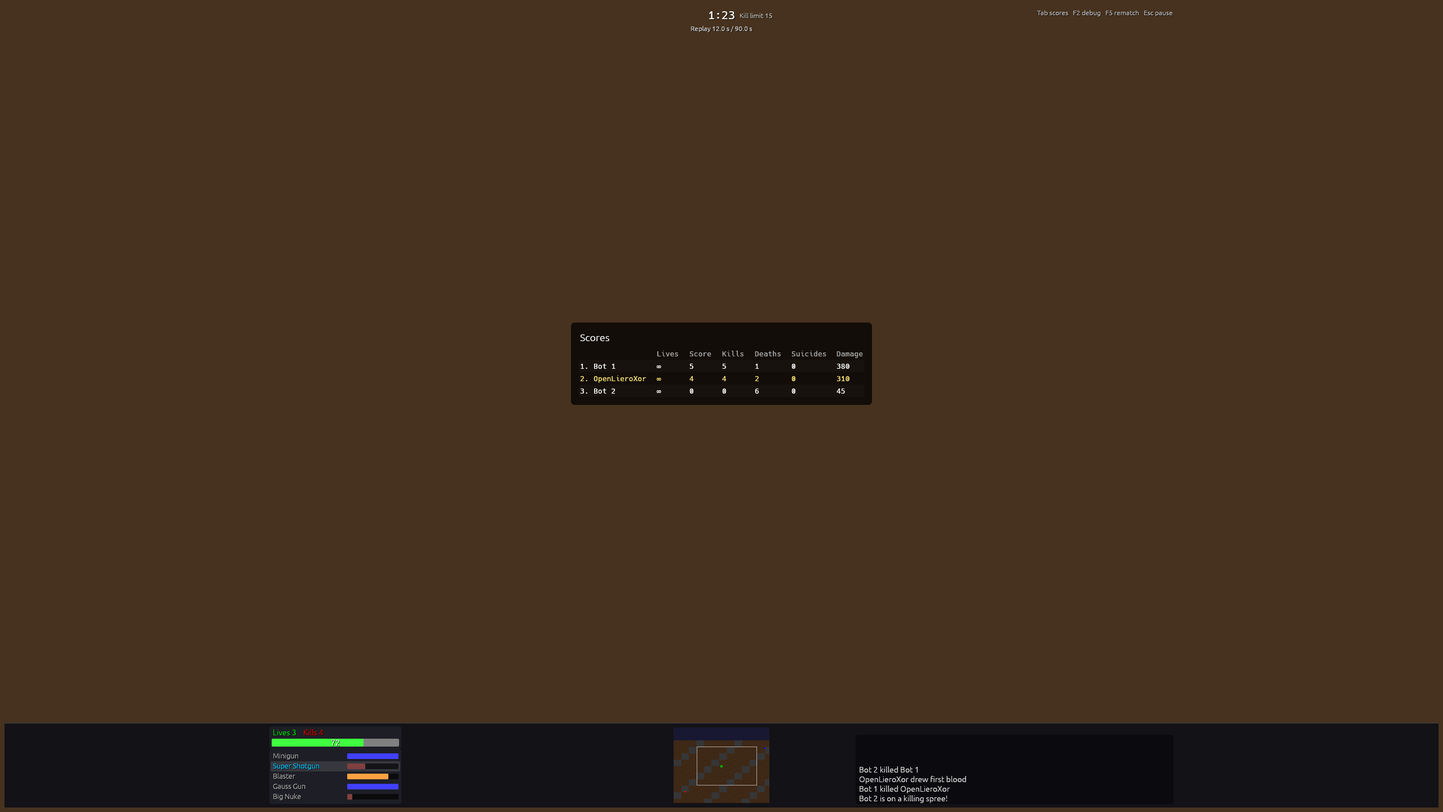
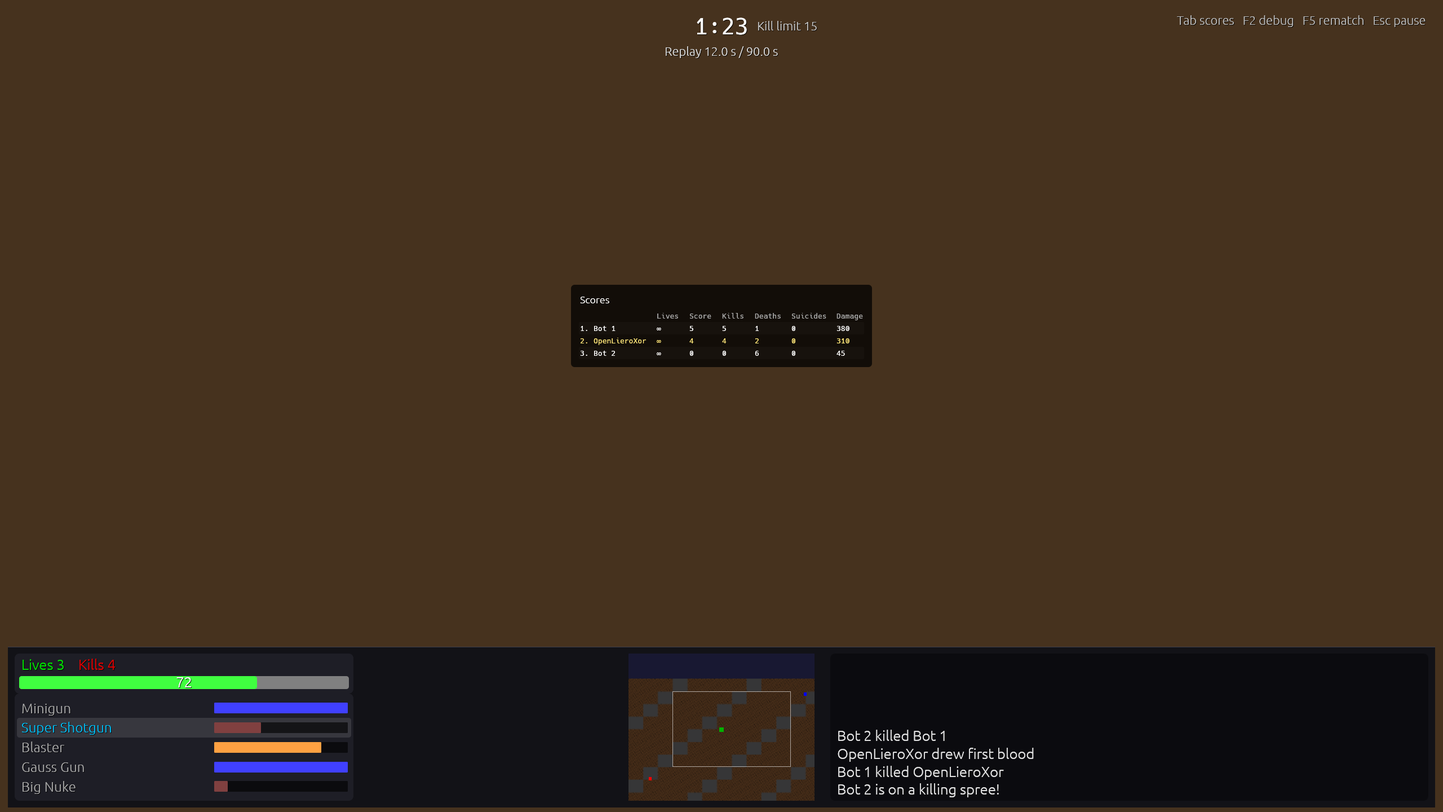
rl-game: add --hud-layout; document the 16:9 frame
The command line chooses the HUD's layout for a run, as the other video
flags do. The docs, the status and the changelog describe the 16:9
frame, the fixed view, the height-based scale and the side layout; the
HUD snapshots are blessed again, with a new one of the side layout at
3440 x 1440.

Claude-Session: https://claude.ai/code/session_019821i4KFSbhZ4mHYULrhEV

diff --git a/crates/rl-game/src/main.rs b/crates/rl-game/src/main.rs
@@ -49,6 +49,13 @@ impl Level {
 }
 
 #[derive(Clone, Copy, clap::ValueEnum)]
+enum HudLayoutFlag {
+    Auto,
+    Bar,
+    Sides,
+}
+
+#[derive(Clone, Copy, clap::ValueEnum)]
 enum Filter {
     /// Whole multiples of the art, centred, black bars around.
     Nearest,
@@ -138,6 +145,11 @@ struct Args {
     /// The upscale filter.
     #[arg(long, value_enum, default_value = "sharp")]
     filter: Filter,
+    /// Where the HUD goes on a window wider than 16:9: the bar, side
+    /// panels beside the 16:9 frame when there is room, or auto (side
+    /// panels on 21:9 and wider).
+    #[arg(long, value_enum, default_value = "auto")]
+    hud_layout: HudLayoutFlag,
     /// Quit after this many seconds.
     #[arg(long)]
     autoquit_after: Option<f64>,
@@ -208,7 +220,7 @@ fn plays_directly(m: &ArgMatches) -> bool {
 }
 
 /// The game the command line chose, loaded, and its session.
-fn direct(args: &Args, audio: rl_audio::Audio, cfg: ShellConfig) -> anyhow::Result<Shell> {
+fn direct(args: &Args, audio: rl_audio::Audio, cfg: ShellConfig, flags: &Overrides) -> anyhow::Result<Shell> {
     let mode = args.mode.unwrap_or(if args.spectate { Mode::Deathmatch } else { Mode::Sandbox });
     anyhow::ensure!(
         args.record.is_none() || mode == Mode::Deathmatch,
@@ -261,7 +273,13 @@ fn direct(args: &Args, audio: rl_audio::Audio, cfg: ShellConfig) -> anyhow::Resu
         Game::Replay(r) => format!("replay of {:.1} s", f64::from(r.ticks()) / 100.0),
     };
     println!("rl-game: {what}: {} on {}, {} worms", assets.mod_id, assets.level_id, assets.worms());
-    Ok(Shell::playing(cfg, assets, session))
+    let mut shell = Shell::playing(cfg, assets, session);
+    // The HUD's layout flag (no file: the other video flags are the
+    // config's).
+    let mut v = shell.ui.settings().video.clone();
+    flags.apply(&mut v);
+    shell.ui.update(rl_ui::UiAction::SetVideo(v));
+    Ok(shell)
 }
 
 /// The video flags given on the command line (they win over the saved
@@ -276,6 +294,11 @@ fn video_flags(m: &ArgMatches, args: &Args) -> Overrides {
             Filter::Sharp => rl_ui::UpscaleFilter::Sharp,
         }),
         interpolation: given("no_interp").then_some(false),
+        hud_layout: given("hud_layout").then_some(match args.hud_layout {
+            HudLayoutFlag::Auto => rl_ui::HudArrangement::Auto,
+            HudLayoutFlag::Bar => rl_ui::HudArrangement::Bar,
+            HudLayoutFlag::Sides => rl_ui::HudArrangement::Sides,
+        }),
     }
 }
 
@@ -340,8 +363,11 @@ fn run(args: Args, play_now: bool, flags: Overrides) -> anyhow::Result<()> {
     let interpolation = if args.no_interp { Interpolation::Latest } else { Interpolation::Linear };
     let viewport = rl_scene::Viewport::GAME;
     let shell_cfg = ShellConfig { content: args.content.clone(), interpolation, viewport };
-    let shell =
-        if play_now { direct(&args, audio, shell_cfg)? } else { menus(&args, audio, shell_cfg, flags) };
+    let shell = if play_now {
+        direct(&args, audio, shell_cfg, &flags)?
+    } else {
+        menus(&args, audio, shell_cfg, flags)
+    };
     println!("rl-game: audio {}", if silent { "silent" } else { "opened" });
     let osrelease = wsl::osrelease();
     let backend = std::env::var("WGPU_BACKEND").ok();

diff --git a/crates/rl-game/src/video.rs b/crates/rl-game/src/video.rs
@@ -10,7 +10,7 @@
 //! else (the UI scale, VSync, the filter, interpolation) applies at once.
 
 use rl_scene::Interpolation;
-use rl_ui::{FrameRate, UpscaleFilter, VideoSettings};
+use rl_ui::{FrameRate, HudArrangement, UpscaleFilter, VideoSettings};
 
 use crate::window::Requests;
 
@@ -92,6 +92,7 @@ pub struct Overrides {
     pub frame_rate: Option<FrameRate>,
     pub filter: Option<UpscaleFilter>,
     pub interpolation: Option<bool>,
+    pub hud_layout: Option<HudArrangement>,
 }
 
 impl Overrides {
@@ -109,6 +110,9 @@ impl Overrides {
         if let Some(x) = self.interpolation {
             v.interpolation = x;
         }
+        if let Some(x) = self.hud_layout {
+            v.hud_layout = x;
+        }
     }
 
     /// The options now say `v`: an option set differently from its flag is
@@ -123,6 +127,7 @@ impl Overrides {
         keep(&mut self.frame_rate, &v.frame_rate);
         keep(&mut self.filter, &v.filter);
         keep(&mut self.interpolation, &v.interpolation);
+        keep(&mut self.hud_layout, &v.hud_layout);
     }
 
     /// `v` as the file keeps it: each option a flag still sets has the
@@ -139,6 +144,9 @@ impl Overrides {
         }
         if self.interpolation.is_some() {
             v.interpolation = file.interpolation;
+        }
+        if self.hud_layout.is_some() {
+            v.hud_layout = file.hud_layout;
         }
     }
 }

diff --git a/docs/porting/STATUS.md b/docs/porting/STATUS.md
@@ -61,7 +61,7 @@ What has been ported from OpenLieroX (commit `d1ad953f`) and how it is verified.
 | Options (§21 G3): window presets and fullscreen through the paced path, VSync, filter, interpolation, UI scale; volumes live; key and gamepad rebinding with explicit conflicts, never leaving an action unreachable (the match is set up in local play only) | `src/client/DeprecatedGUI/Menu_Options.cpp`, `src/client/Options.cpp:45-73` (laid out anew) | `rl-ui::screens::{options, keys}`, `rl-input::Capture`, `rl-game::{video, window}` | done (plan 7 task 4) | `rebinding_never_leaves_an_action_unreachable`, `options_rebind_a_key`, `options_set_video_and_audio`, `video_changes_go_through_the_paced_path`, `volume_changes_apply_live`, `the_saved_window_opens_with_the_flags_on_top_unsaved`; e2e (`fixtures/autoplay/menus.ron`: quick window-size changes) |
 | Window changes on Wayland (v0.1 playtest; no OLX equivalent): a size or mode change makes the window again at its new shape on the same device, so WSLg leaves no stale frame; X11 changes it in place | — | `rl-game::{window, gpu, app}` (`Plan`, `Shape`, `Gpu::rebind`, `App::recreate`) | done | `a_shape_says_when_the_window_shows_a_change`, `wayland_makes_the_window_again`, `a_window_made_again_keeps_the_game_ticking`; real-screen captures under WSLg (1280 × 720 → 1920 × 1080 → back; the desktop's size → fullscreen → back) and the options' autoplay on Wayland |
 | Weapon selection (§21 G4): the profile's slots by name, `findEnabledWeapon`, left/right over the enabled weapons (×6 with Select weapon), Random, Done on Fire's release, skipped with one weapon or none; the choice in `MatchOptions` and the replay | `src/common/CWormHuman.cpp:702-1000`, `src/common/CWorm.cpp:788-844` | `rl-ui::{weapon_select, screens::weapon_select}`, `rl-content::Player::HumanWith`, `rl-game::shell` | done (plan 7 task 5) | `weapon_selection_respects_restrictions`, `a_refused_choice_leaves_the_match_playable` |
-| HUD and minimap (§21 G5, Modern only): an opaque bar along the bottom (OLX 0.58's status bar; deviation below) with health, five weapon slots with OLX's bar states, the minimap in the centre (OLX's proportions, colours and dots, plus the view rectangle) and the event log; clock and kill limit over the playfield, Tab's scoreboard; the game drawn above the bar | `src/client/CClient_Draw.cpp` (HUD, `:137-138` the local game's minimap, `:483-515` the bar (commented out at `d1ad953f`), `drawOnMiniMap`), `docs/porting/olx-notes/presentation.md` §2.4, §9 | `rl-ui::hud`, `rl-game::{hud, app, gpu}` | done (plan 7 task 5; the bar after the v0.1 playtest) | `hud_layout_holds_at_all_scales`, `hud_paints_at_every_scale`, `log_keeps_the_last_lines_oldest_first`, `the_playfield_is_the_window_above_the_bar`, `hud_hides_the_weapons_during_the_selection`, `names_stay_inside_the_view`, `hud_snapshot_1080p`, `hud_snapshot_1440p_with_scores` (GPU tier) |
+| HUD and minimap (§21 G5, Modern only): an opaque bar along the bottom fifth of the window's 16:9 frame (OLX 0.58's status bar; deviation below) with health, five weapon slots with OLX's bar states, the minimap in the centre (OLX's proportions, colours and dots, plus the view rectangle) and the event log; clock and kill limit over the playfield, Tab's scoreboard; the game drawn above the bar | `src/client/CClient_Draw.cpp` (HUD, `:137-138` the local game's minimap, `:483-515` the bar (commented out at `d1ad953f`), `drawOnMiniMap`), `docs/porting/olx-notes/presentation.md` §2.4, §9 | `rl-ui::{hud, theme}`, `rl-game::{hud, app, gpu}`, `rl_scene::Viewport::GAME`, `rl_render::Renderer::render_in` | done (plan 7 task 5; the bar, the 16:9 frame and the side layout after the v0.1 playtest) | `hud_layout_holds_at_all_scales` (both layouts), `the_scale_follows_the_height`, `the_game_view_is_fixed`, `the_playfield_is_the_frame_above_the_bar`, `hud_paints_at_every_scale`, `log_keeps_the_last_lines_oldest_first`, `hud_hides_the_weapons_during_the_selection`, `names_stay_inside_the_view`, `hud_snapshot_1080p`, `hud_snapshot_1440p_with_scores`, `hud_snapshot_3440x1440_side_panels` (GPU tier) |
 | Pause and results: Esc's pause menu (no tick while paused), the results after `GAMEOVER_WAIT` with OLX's columns plus score, deaths and suicides; Rematch, Save replay, Back to menu | `src/client/CClient_Draw.cpp:1840-1897` | `rl-ui::screens::{ingame, results}`, `rl-game::shell` | done (plan 7 task 5) | `pause_stops_ticks_and_replays_stay_valid`, `pause_menu_holds_the_game_and_opens_the_options`, `results_match_world_scores`, `results_show_the_columns_and_their_buttons`, `save_replay_once_per_match` |
 | Level thumbnails (§21 G6, narrowed): `thumb.png` per level pack (160 × 96, box-filtered, letterboxed), pack format 4, left out of the content hash; decoded lazily and bounded in the menus | `src/game/Level.cpp:33-44` (`minimapForLevel`) | `rl-import-gfx`, `rl-pack`, `rl-ui::screens::local_play` | done (plan 7 task 6) | `thumbnails_are_imported_for_every_level`, `thumbnails_are_letterboxed_to_a_fixed_size`, `thumbnails_average_the_art`, `thumbnails_decode_lazily_and_bounded` |
 | About (§21 G9): credits (Liero, Liero Xtreme, the OpenLieroX team), licenses, each pack's recorded origin | `src/client/DeprecatedGUI/Menu_Main.cpp:276-283` | `rl-ui::screens::about` | done (plan 7 task 6) | `about_credits_the_authors_and_the_licenses` |
@@ -431,15 +431,28 @@ What has been ported from OpenLieroX (commit `d1ad953f`) and how it is verified.
   the newest that fit shown; OLX's local chat showed 6 for 3 s over the
   playfield; built as a log of typed lines so a multiplayer chat can join
   it), in OLX's colours (health `(64,255,64)`, weapon bar states,
-  lives/kills, weapon label `#02bff6`). The bar is 150 points high (it
-  follows the UI scale), its parts within a centred 1600 points; on a
-  screen under 640 × 360 points everything shrinks to half size, the
-  minimap before the log. The game is drawn in the playfield above the
-  bar, never under it (`rl-game`: `app::bar_pixels`, `playfield`); the
-  view keeps E4's 240 world pixels of height and 16:9 at most, so a
-  playfield wider than 16:9 (a 16:9 window less the bar) shows the
-  picture centred with black at its sides, where OLX 0.58's 640 × 382
-  viewport showed 191 world pixels of height. The clock and kill limit
+  lives/kills, weapon label `#02bff6`). *The 16:9 frame and the fixed
+  view* (the user's second ruling after the v0.1 playtest, for a
+  competitive multiplayer game): the game is designed for 16:9, the
+  largest 16:9 frame centred in the window (a 16:9 window has no black
+  strips; a narrower one black above and below, a wider one at the
+  sides). Its bottom fifth is the bar, as OLX 0.58 (98 of 480 pixels;
+  its minimap 128 × 96, a fifth of the height); the minimap fills the
+  bar's height less a little (OLX's 119 × 94 proportions). The playfield
+  above it (16 : 7.2) shows `rl_scene::Viewport::GAME`, 427 × 192 world
+  pixels, for every window and layout (spec §19 E4 amended: 16:9's width
+  at 240, 80 % of the height, as OLX 0.58 showed 320 × 191 above its
+  bar, `CClient.cpp:1712`; the fork's full-height 240 is gone). The UI's
+  scale follows the height: pixels per point are the frame's height (in
+  game; the window's in the menus) over 720 times the UI scale, so the
+  HUD and menus fill the same share of the screen on every display; the
+  HUD scales with the frame alone. *Side layout* (Options > Video > HUD
+  layout: Auto, Bottom bar, Side panels; `--hud-layout`): on a window
+  with a quarter of the frame's height free on each side (21:9 and
+  wider), the health and weapons go, larger, in a column left of the
+  frame and the event log, taller and wrapped, in one right of it; the
+  bar keeps the minimap. The frame and the view do not change, so no
+  layout shows more. The clock and kill limit
   stay top centre over the playfield, the keys top right; the weapon
   selection, the pause menu and the results are centred over the
   playfield. Nothing fades (the overlay HUD faded where a worm was under
@@ -449,8 +462,7 @@ What has been ported from OpenLieroX (commit `d1ad953f`) and how it is verified.
   results.
   *Minimap:* OLX's 119 × 94 proportions and half opacity, box-filtered
   from the colour terrain at twice OLX's resolution, refreshed every 10
-  ticks (OLX updates edited areas at once), scaled up to 1.5 × (as tall
-  as the bar allows); worm dots as `drawOnMiniMap` (2 × 2, the human 3 × 3, OLX's
+  ticks (OLX updates edited areas at once), as tall as the bar allows; worm dots as `drawOnMiniMap` (2 × 2, the human 3 × 3, OLX's
   blink), plus the camera's view as a rectangle, which OLX does not draw.
   *Pause:* Resume, Options (the match stays paused) and Quit to menu; no
   tick runs while paused or during the weapon selection, so replays hold

diff --git a/crates/rl-ui/CLAUDE.md b/crates/rl-ui/CLAUDE.md
@@ -48,7 +48,8 @@ these widgets and carries out their commands (`rl-game/src/shell.rs`).
   offered in the same "Display" list; v0.1.0's `window: Desktop` loads as
   fullscreen through `VideoFile`;
   `FrameRate`, `UpscaleFilter`, interpolation, `ui_scale` in
-  `UI_SCALE_RANGE` 0.5-3), audio volumes 0-1, `Bindings`, gameplay
+  `UI_SCALE_RANGE` 0.5-3 (on top of the height's scale), `hud_layout`:
+  `HudArrangement::{Auto, Bar, Sides}`, Auto when an old file lacks it), audio volumes 0-1, `Bindings`, gameplay
   (`MatchPrefs`: local play's last setup; the HUD has one style: an old file's `hud:` is ignored),
   `import` (`ImportSettings::last_path`, default empty).
   `sanitize()` fixes out-of-range values and
@@ -101,7 +102,8 @@ these widgets and carries out their commands (`rl-game/src/shell.rs`).
   (`profiles.rs`: Players, Look and Skin panels; the list, New, Delete confirmed, "Play as this", name with
   its error, colour sliders, searchable skins, the preview; it opens on
   the profile playing), replays (`replays.rs`, each file's header problem
-  shown), options (`options.rs`, 720 wide: Video, Audio, Keys tabs,
+  shown), options (`options.rs`, 720 wide: Video (with the HUD layout),
+  Audio, Keys tabs,
   centred; the match is set up in local play only, which remembers it in
   `settings.gameplay`; the UI
   scale applies when its slider is released; `keys.rs`: per action its
@@ -158,25 +160,31 @@ these widgets and carries out their commands (`rl-game/src/shell.rs`).
   `clock`, scoreboard `rows`, `Results`), `view.rs`
   (`HudView`, the frame's data; `WormHud::of(world, i, names, ..)`: health,
   lives, kills, slots with OLX's bar states), `layout.rs`
-  (`HudLayout::new(screen)`: an opaque `bar` along the bottom, `BAR_FULL`
-  150 points high (the UI scale is egui's zoom), its parts within a
-  centred 1600 points: health and weapons left, the minimap centred at
-  OLX's 119 × 94 proportions (OLX 0.58's local game; the user's ruling
-  after the v0.1 playtest), the `log` right (whole lines, at most 560
-  wide); the `playfield` above it, where the game draws (`bar_height`,
-  which `rl-game` leaves under its picture), the clock top centre and the
-  keys top right over it; under 640 × 360 points all shrinks to half size,
-  the minimap before the log: Review Focus 5,
-  `hud_layout_holds_at_all_scales`),
+  (`HudLayout::new(screen, arrangement)`: the game is designed for 16:9:
+  `frame(screen)` is the largest 16:9 rectangle centred in the window;
+  its bottom fifth (`BAR_SHARE`, OLX 0.58's 98 of 480) the opaque `bar`
+  (health and weapons left, the minimap centred and as tall as the bar
+  at OLX's 119 × 94 proportions, the `log` right), the rest the
+  `playfield` (`playfield(screen)`, 16 : 7.2, where `rl-game` draws
+  `rl_scene::Viewport::GAME`), the clock top centre and the keys top
+  right over it; every size is given for a frame `REFERENCE_HEIGHT`
+  (720) high and scaled by `unit`, so the HUD looks the same on every
+  window and at every UI scale. The side layout (`sides`: `Auto` or
+  `Sides` and a quarter of the frame's height free on each side,
+  `SIDE_SHARE`; 21:9 and wider): the health and weapons, larger, in the
+  column left of the frame, the log, taller, in the one right of it; the
+  frame, bar, playfield and minimap unchanged. The user's rulings after
+  the v0.1 playtest: Review Focus 5, `hud_layout_holds_at_all_scales`),
   `minimap.rs` (`image`: the colour terrain box-filtered to
   `TEXTURE_SIZE`; OLX's dot rectangles and blink; the view rectangle;
-  its scale at most `MAX_MINIMAP` 1.5),
-  `paint.rs` (`show(ui, &view)`: the bar, then its parts, the log's newest
-  line at the bottom; nothing fades; a worm without slots shows no weapon
+  `minimap_scale`),
+  `paint.rs` (`show(ui, &view)`: the bar (and the side columns, opaque),
+  then its parts, the log's newest line at the bottom, a long one
+  wrapped; nothing fades; a worm without slots shows no weapon
   rows; the scoreboard centred over the playfield; `table`). The weapon
   selection, the pause menu and the results centre over the playfield
-  (`screens::playfield`). Image snapshots at 1080p and
-  1440p (`tests/hud_snapshots.rs` against `fixtures/ui/`, in the GPU tier
+  (`screens::playfield`). Image snapshots at 1080p, 1440p and the side
+  layout at 3440 × 1440 (`tests/hud_snapshots.rs` against `fixtures/ui/`, in the GPU tier
   with `RL_GPU_TESTS`; `cargo xtask bless-render --reason` re-records them, logged).
 - **Weapon selection** (`weapon_select.rs`, §21 G4): `WeaponMenu` (names,
   enabled, `findEnabledWeapon`'s fallback, seed; `needs_choice`),
@@ -216,9 +224,13 @@ these widgets and carries out their commands (`rl-game/src/shell.rs`).
   there; `notices()` says so, and the main menu shows it
   (`MenuData::notices`, set by the app). Files over 1 MiB are bad. Warnings are
   returned, never printed: the caller logs each once.
-- **Theme** (`theme.rs`): `apply(ctx, ui_scale)`: dark, larger text, the
-  scale as egui's zoom factor (on top of the DPI scale; it takes effect at
-  the end of the pass); `BACKGROUND`, `ACCENT` (section titles),
+- **Theme** (`theme.rs`): `apply(ctx)`: dark, larger text. The scale
+  follows the height, not the display's DPI (the user's ruling after the
+  v0.1 playtest): `pixels_per_point(height, ui_scale)` is `height / 720 ×
+  ui_scale` (the window's height in the menus, its 16:9 frame's in game:
+  the app's choice), `set_scale(ctx, native, height, ui_scale)` sets
+  egui's zoom to it on a display of `native` pixels per point (every
+  frame; it takes effect at the end of the pass); `BACKGROUND`, `ACCENT` (section titles),
   `PRIMARY` (the primary action's fill), `section_frame()`.
 
 Test: `cargo nextest run -p rl-ui` (`tests/store.rs`, `tests/state.rs`,

diff --git a/crates/rl-game/CLAUDE.md b/crates/rl-game/CLAUDE.md
@@ -84,7 +84,8 @@ cargo run --release -p rl-game -- --spectate --bots 8 [--speed 16]   # bots alon
   (`Shell::interpolation`, new games and the one playing). The window opens
   at the saved preset and mode (`Video::opening`, physical pixels;
   fullscreen keeps the preset for when it ends), so no resize follows its
-  creation. `--fullscreen`, `--uncapped`, `--filter`, `--no-interp` given
+  creation. `--fullscreen`, `--uncapped`, `--filter`, `--no-interp`,
+  `--hud-layout` given
   on the command line win for the run (`video::Overrides`, applied before
   the `UiState` is made, so the options show them); `Shell::set_overrides`
   keeps the file's values for them until the player changes them in the
@@ -105,18 +106,20 @@ cargo run --release -p rl-game -- --spectate --bots 8 [--speed 16]   # bots alon
   otherwise takes the first adapter Windows lists, often the CPU's
   integrated GPU. WSLg presents through GL at the
   compositor's 60 Hz with FIFO only.
-- **Playfield** (`app.rs`, the HUD bar after the v0.1 playtest): the
-  game is drawn above the HUD's opaque bar, never under it.
-  `bar_pixels(size, ppp)` is `rl_ui::hud::bar_height` in pixels at the
-  display's scale times the UI scale (egui's zoom), worked out every
-  frame; `playfield(size, bar)` is the window above it. The view
-  (`viewport`, spec §19 E4: 240 world pixels high, at most 16:9) is the
-  playfield's, set again when the bar's height changes (a UI scale, a
-  resize); `Gpu::bar` makes `Gpu::draw` render the world into the
-  playfield (`Renderer::render` with the playfield's size: the upscale
-  pass places the picture there, black around it), the egui overlay
-  paints the bar over the rest; the names' `ScreenMap` uses the same
-  rectangle. `rl-render` is unchanged (its goldens too).
+- **Playfield and scale** (`app.rs`, the user's rulings after the v0.1
+  playtest): the game is designed for 16:9. `playfield(size)` is the
+  window's centred 16:9 frame above the HUD bar (`rl_ui::hud::playfield`,
+  whole pixels); `Gpu::draw` renders the world there
+  (`Renderer::render_in`, black around it) and the egui overlay paints
+  the bar (and the side layout's columns) over the rest; the names'
+  `ScreenMap` uses the same rectangle (`rl_render::dest_rect_in`). The
+  view is `rl_scene::Viewport::GAME` (427 × 192 world pixels) for every
+  window and HUD layout (spec §19 E4 amended): resizes do not touch it.
+  The UI's scale: every frame `rl_ui::theme::set_scale` with the
+  display's scale factor, `scale_height(size, in_game)` (the frame's
+  height in game, the window's in the menus) and the options' UI scale
+  (`App::ui_scale`; 1 for the command line's games).
+  `rl-render`'s goldens do not change.
 - **Loop** (`app.rs`): each frame first acquires the surface texture
   (`Gpu::acquire`), so a VSync wait comes before the input is read, not
   between reading and drawing it. Then `TickClock` (`clock.rs`) runs the
@@ -183,7 +186,8 @@ cargo run --release -p rl-game -- --spectate --bots 8 [--speed 16]   # bots alon
   design). The recording ends `RECORD_AFTER_END` (3 s) after the game over
   or at `MAX_TICKS`; `--record f` saves it at exit and on each rematch
   (`f`, `f-2`, ... : `drive::record_path`).
-- **Match HUD** (`rl_ui::hud`, an opaque bar along the bottom;
+- **Match HUD** (`rl_ui::hud`, an opaque bar along the bottom, or the
+  side layout: `Frame::arrangement`, the options' `hud_layout`;
   `hud::view(session, &Frame)` builds its `HudView` from
   the session and the frame; no weapon rows
   while the selection is open, `Shell::selecting`, the world's being a

diff --git a/README.md b/README.md
@@ -70,6 +70,7 @@ Useful flags (`rl-game --help` lists them all):
 | `--fullscreen` | borderless fullscreen for this run (not saved; the options also have it) |
 | `--window-system x11` | X11 instead of Wayland (also `RL_WINDOW_SYSTEM=x11`); try it if the Wayland compositor drops the game |
 | `--uncapped`, `--filter nearest\|sharp`, `--no-interp` | no VSync; the upscale filter; OLX's whole-pixel drawing of the latest tick (for this run) |
+| `--hud-layout auto\|bar\|sides` | where the HUD goes on a window wider than 16:9 (for this run) |
 | `--spectate --bots N` | a Deathmatch of 2 to 32 bots alone, watched (no menus) |
 | `--speed 1\|2\|4\|8\|16\|max` | how fast a watched game runs: a replay or `--spectate` (PageUp/PageDown change it); a game you play is always 1× |
 | `--replay f.rlrp` | watch a replay |
@@ -89,14 +90,20 @@ Useful flags (`rl-game --help` lists them all):
   Left/Right the weapon, with Shift six at a time), **Random**, **Done**;
   the mouse works too. After the match (15 kills or 6 minutes by
   default), "Game Over", then the **results** (kills, deaths, suicides,
-  score): Rematch, Save replay, Back to menu. In game, a bar along the
-  bottom shows your health and weapons (left), the minimap (centre) and
-  the log of kills and deaths (right); the game is drawn above it.
+  score): Rematch, Save replay, Back to menu. The game is laid out for
+  16:9 and shows everyone the same area of the level, whatever the
+  window: a bar along the bottom shows your health and weapons (left),
+  the minimap (centre) and the log of kills and deaths (right), and the
+  game is drawn above it. On a 21:9 or wider window the health, weapons
+  and log can move into the space beside the picture (Options → Video →
+  HUD layout).
 - **Sandbox:** you and idle targets on a level, to try weapons.
 - **Profiles:** your name, colour and skin (all imported skins, searchable,
   with an animated preview); the one marked plays.
 - **Options:** Video (display: a 1280 × 720, 1600 × 900 or 1920 × 1080
-  window, or borderless fullscreen; VSync or uncapped, upscale filter, interpolation, UI scale), Audio (master and effects volume), Keys
+  window, or borderless fullscreen; VSync or uncapped, upscale filter, interpolation, HUD
+  layout: Auto, Bottom bar or Side panels; UI scale: the menus and HUD
+  always fill the same share of the screen's height, the scale on top), Audio (master and effects volume), Keys
   (any number of keys and gamepad inputs per action; Reset to OLX's keys).
   The match is set up in Local Play, which remembers the last one.
 - **Replays:** every Deathmatch played from the menus (the last 20) and the

diff --git a/CHANGELOG.md b/CHANGELOG.md
@@ -17,14 +17,27 @@ All notable changes to rust-liero are recorded here. The format follows
   before each game (it remembers the last one), and the tab edited the
   same settings.
 - The in-game HUD is an opaque bar along the bottom, as OLX 0.58's local
-  game had: health and weapons on the left, the minimap in the centre, a
-  log of kills, deaths and the match's messages on the right. The game is
-  drawn above the bar, never under it, and nothing fades any more. The
-  clock stays top centre, the keys top right.
+  game had: health and weapons on the left, the minimap in the centre,
+  as tall as the bar, a log of kills, deaths and the match's messages on
+  the right. The game is drawn above the bar, never under it, and nothing
+  fades any more. The clock stays top centre, the keys top right.
+- The game is laid out for 16:9 and shows every player the same area of
+  the level (427 × 192 world pixels, OLX 0.58's height above its bar):
+  a 16:9 window has no black strips, a narrower one black above and
+  below, a wider one at the sides. The bar is a fifth of the height.
+- The menus and the HUD fill the same share of the screen's height on
+  every display (1280 × 720 looks as before; 1440 lines are twice the
+  size); the UI scale is on top of that.
 - The options' Video section has one Display list: a 1280 × 720,
   1600 × 900 or 1920 × 1080 window, or borderless fullscreen. The
   desktop-sized window is gone (its bottom sat under the taskbar); a saved
   "Desktop size" opens fullscreen.
+
+### Added
+
+- On a window 21:9 or wider the health, weapons and log can sit beside
+  the 16:9 picture instead of in the bar: Options → Video → HUD layout
+  (Auto, Bottom bar, Side panels), or `--hud-layout`.
 
 ### Fixed
 

diff --git a/crates/rl-scene/CLAUDE.md b/crates/rl-scene/CLAUDE.md
@@ -15,7 +15,9 @@ is `docs/porting/olx-notes/presentation.md` §1, §3-§6 and §11.
   camera, and the tick's `Marks` (muzzle flashes, green crosshairs, laser
   sights, beams) replace the last. `build(&world, alpha, &assets, &mut list)`
   per drawn frame: `Camera::process` (hard lock, shake, clamp), then the
-  layers. The caller appends `rl-fx`'s entities to `Layer::Entities`.
+  layers. The game's view is `Viewport::GAME`, 427 × 192 world pixels for
+  every window (spec §19 E4 as amended after the v0.1 playtest);
+  `Viewport::from_aspect` (240 high) stays for tools and the goldens. The caller appends `rl-fx`'s entities to `Layer::Entities`.
 - **`DrawList`** (`draw_list.rs`): the view rectangle and five layers in
   OLX's order (`Layer::ALL`): entities, beams (laser sights, then worm
   beams, as `DrawEntities` draws them), projectiles, bonuses, worms (rope,
